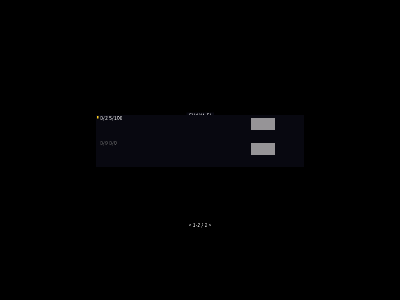
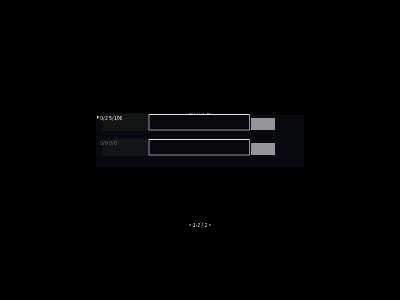
feat(shell): draw channel row pills and hollow tracks

Changed region(s): [[0.36, 0.36, 0.63, 0.54]]

diff --git a/crates/o2jam-shell/src/screens/paint.rs b/crates/o2jam-shell/src/screens/paint.rs
@@ -299,8 +299,105 @@ pub(crate) fn channel_row_hit(y: i32, row_count: usize) -> Option<usize> {
 const CHANNEL_ENTER_X: i32 = 502;
 const CHANNEL_ENTER_W: i32 = 48;
 const CHANNEL_ENTER_H: i32 = 24;
-/// Button top offset inside a row band in native px (face top 236
-/// minus band top 232 on the live capture).
+/// Reference-measured Channel row chrome in native px (`/tmp/chan2-list.png`;
+/// row 0 only, followers ride the pitch, exe-OPEN): dark name pill
+/// behind the row text, hollow silver track with dark segment bodies
+/// (all rows read empty on the quiet server, so no fill rule is
+/// evidenced — the interior stays whatever the backdrop painted).
+const CHANNEL_PILL_X: i32 = 205;
+const CHANNEL_PILL_Y: i32 = 227;
+const CHANNEL_PILL_W: i32 = 94;
+const CHANNEL_PILL_H: i32 = 35;
+/// Measured pill tone (near-black).
+const CHANNEL_PILL_TONE: u32 = pack_xrgb(19, 20, 21);
+/// Track chrome rect in native px (see above).
+const CHANNEL_TRACK_X: i32 = 297;
+const CHANNEL_TRACK_Y: i32 = 228;
+const CHANNEL_TRACK_W: i32 = 203;
+const CHANNEL_TRACK_H: i32 = 33;
+/// Measured track tones: bright top edge, mid sides and bottom.
+const CHANNEL_TRACK_TOP_TONE: u32 = pack_xrgb(230, 227, 230);
+const CHANNEL_TRACK_SIDE_TONE: u32 = pack_xrgb(150, 148, 150);
+
+/// Channel row chrome for viewport slot `slot`, scaled to the frame:
+/// name pill plus hollow track. Position stand-ins (see above).
+fn paint_channel_row_chrome(frame: &mut Frame<'_>, slot: usize) {
+    let step = i64::from(CHANNEL_ROW_PITCH) * i64::try_from(slot).unwrap_or(0);
+    let shift = i32::try_from(step).unwrap_or(i32::MAX);
+    let pill = scale_rect_to_frame(
+        &Rect {
+            x: CHANNEL_PILL_X,
+            y: CHANNEL_PILL_Y.saturating_add(shift),
+            w: CHANNEL_PILL_W as u32,
+            h: CHANNEL_PILL_H as u32,
+        },
+        frame.w,
+        frame.h,
+    );
+    fill_rect(frame, &pill, CHANNEL_PILL_TONE);
+    let track = scale_rect_to_frame(
+        &Rect {
+            x: CHANNEL_TRACK_X,
+            y: CHANNEL_TRACK_Y.saturating_add(shift),
+            w: CHANNEL_TRACK_W as u32,
+            h: CHANNEL_TRACK_H as u32,
+        },
+        frame.w,
+        frame.h,
+    );
+    let edge = scale_rect_to_frame(
+        &Rect {
+            x: 0,
+            y: 0,
+            w: 2,
+            h: 2,
+        },
+        frame.w,
+        frame.h,
+    );
+    let (ex, ey) = (edge.w as i32, edge.h as i32);
+    let (tx, ty, tw, th) = (track.x, track.y, track.w as i32, track.h as i32);
+    fill_rect(
+        frame,
+        &Rect {
+            x: tx,
+            y: ty,
+            w: track.w,
+            h: ey as u32,
+        },
+        CHANNEL_TRACK_TOP_TONE,
+    );
+    fill_rect(
+        frame,
+        &Rect {
+            x: tx,
+            y: ty + th - ey,
+            w: track.w,
+            h: ey as u32,
+        },
+        CHANNEL_TRACK_SIDE_TONE,
+    );
+    fill_rect(
+        frame,
+        &Rect {
+            x: tx,
+            y: ty,
+            w: ex as u32,
+            h: track.h,
+        },
+        CHANNEL_TRACK_SIDE_TONE,
+    );
+    fill_rect(
+        frame,
+        &Rect {
+            x: tx + tw - ex,
+            y: ty,
+            w: ex as u32,
+            h: track.h,
+        },
+        CHANNEL_TRACK_SIDE_TONE,
+    );
+}
 const CHANNEL_ENTER_DY: i32 = 4;
 /// Measured face tone of the entry button (mid-gray pill).
 const CHANNEL_ENTER_TONE: u32 = pack_xrgb(150, 148, 151);
@@ -441,6 +538,7 @@ fn paint_channel_rows(frame: &mut Frame<'_>, channels: &[ChannelState], highligh
     let text_x = w / 4;
     for (slot, channel) in channels.iter().skip(top).take(shown).enumerate() {
         let row = channel_row_top(slot, h);
+        paint_channel_row_chrome(frame, slot);
         let entry = channel_row_text(channel);
         let ink = if channel.active {
             pack_xrgb(0xFF, 0xFF, 0xFF)

diff --git a/crates/o2jam-shell/src/screens/game.rs b/crates/o2jam-shell/src/screens/game.rs
@@ -3889,6 +3889,8 @@ mod game_tests {
             0,
         );
         assert!(white_near(&buf, 800, 600, (200, 232)));
+        assert_eq!(buf[240 * 800 + 210], pack_xrgb(19, 20, 21));
+        assert_eq!(buf[228 * 800 + 350], pack_xrgb(230, 227, 230));
         assert!(ink_near(
             &buf,
             800,

diff --git a/docs/parity.md b/docs/parity.md
@@ -37,7 +37,7 @@ invented placement remains (cited per cell), never for lack of art.
 
 | Dimension | 7.55 expectation (evidence) | Shell status | Verdict |
 |---|---|---|---|
-| Composition | 50 controls, decl `0x27`, **no `.bnd`** (bare `BOUND`); `Dialog_ChannelSelectBar.ojs`, back/rank buttons (lifecycle §6) | Soak stages the empty scene (no-fill pinned per `docs/channel-fill.md` — the block names zero sprites and the code-fetched bar has no pinned host, so no bar body stages): `channel.png` re-shot 2026-11-07 reads as art-less black + scrim + list + `CHANNEL` stamp + cursor (corner untouched, navy 0). Still FAIL: list rows step at invented `h/4 + i*8` (audit 10–11), no bar body (host unpinned). Art inventory 2026-11-09 (names only, `Interface1.opi`): select bar 347x41, `Dialog_ChannelInfo.ojs` 800x466 + 14 parts + its own `.bnd`, board/category/pager/button names — 40+ staged-able parts, all unstaged, mounts unpinned; static mount-position scan negative (channel-fill.md), dynamic rect read in flight. Rows repainted 2026-11-09 at reference-measured tops (232+50·i native, pitch 50; hit-test mirrors paint) with rescaled scrim plus entry-button plates at the measured faces (face-tone boxes: position is reference-measured, rendering is a stand-in — staged button art unmounted, no CP949 glyphs). Lists over four rows scroll a highlight-following viewport with a display-only pager readout (`< a-b/n >`, arrows bind nothing — P0); live 10-channel scroll verified with crisp pager, no ghost. — still FAIL: dialog chrome, pills, real buttons, tabs, menu bar all absent (mounts unpinned). | FAIL |
+| Composition | 50 controls, decl `0x27`, **no `.bnd`** (bare `BOUND`); `Dialog_ChannelSelectBar.ojs`, back/rank buttons (lifecycle §6) | Soak stages the empty scene (no-fill pinned per `docs/channel-fill.md` — the block names zero sprites and the code-fetched bar has no pinned host, so no bar body stages): `channel.png` re-shot 2026-11-07 reads as art-less black + scrim + list + `CHANNEL` stamp + cursor (corner untouched, navy 0). Still FAIL: list rows step at invented `h/4 + i*8` (audit 10–11), no bar body (host unpinned). Art inventory 2026-11-09 (names only, `Interface1.opi`): select bar 347x41, `Dialog_ChannelInfo.ojs` 800x466 + 14 parts + its own `.bnd`, board/category/pager/button names — 40+ staged-able parts, all unstaged, mounts unpinned; static mount-position scan negative (channel-fill.md), dynamic rect read in flight. Rows repainted 2026-11-09 at reference-measured tops (232+50·i native, pitch 50; hit-test mirrors paint) with rescaled scrim plus entry-button plates at the measured faces (face-tone boxes: position is reference-measured, rendering is a stand-in — staged button art unmounted, no CP949 glyphs). Rows carry procedural pill + hollow-track chrome at measured rects with live population data behind them (segment fill unobserved on the quiet server — interiors stay backdrop). Lists over four rows scroll a highlight-following viewport with a display-only pager readout (`< a-b/n >`, arrows bind nothing — P0); live 10-channel scroll verified with crisp pager, no ghost. — still FAIL: dialog chrome, pills, real buttons, tabs, menu bar all absent (mounts unpinned). | FAIL |
 | Input | Pick channel/planet → room (`My_channel`/`My_planet` bridge, file `0x24df70`–`0x24e024`) | Up/Down moves highlight (clamped), Confirm → Room | OPEN (no planet/solo fork) |
 | Timing | None documented | n/a | PASS (vacuous) |
 | Transitions | `Channel → Room`; hosted by unknown class (open question) | Implemented + tested | PASS |
